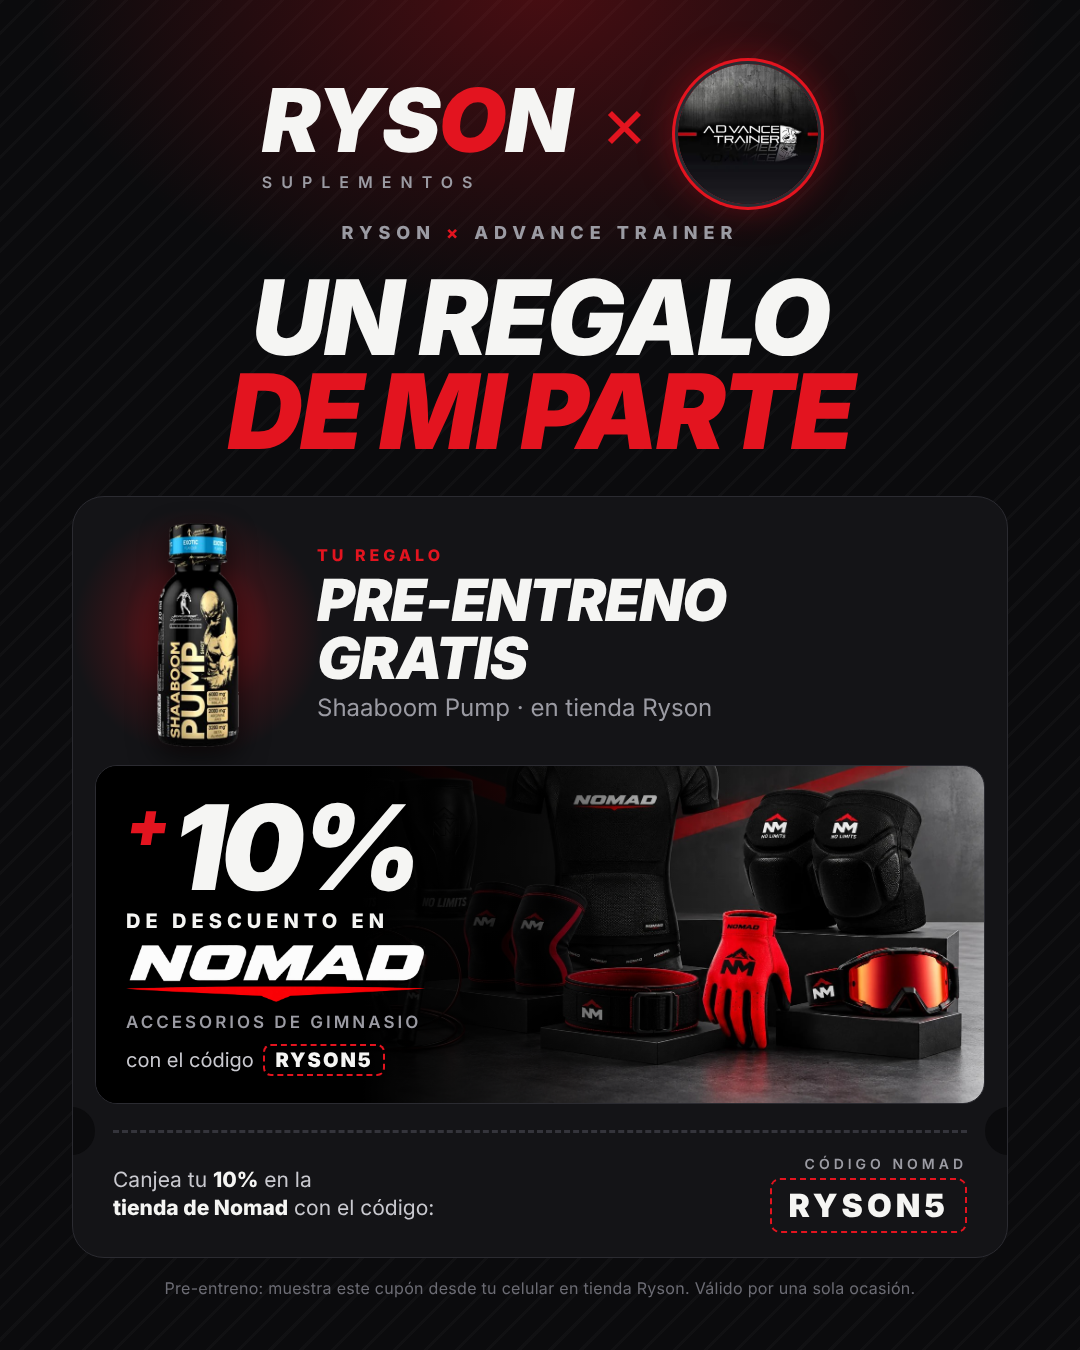
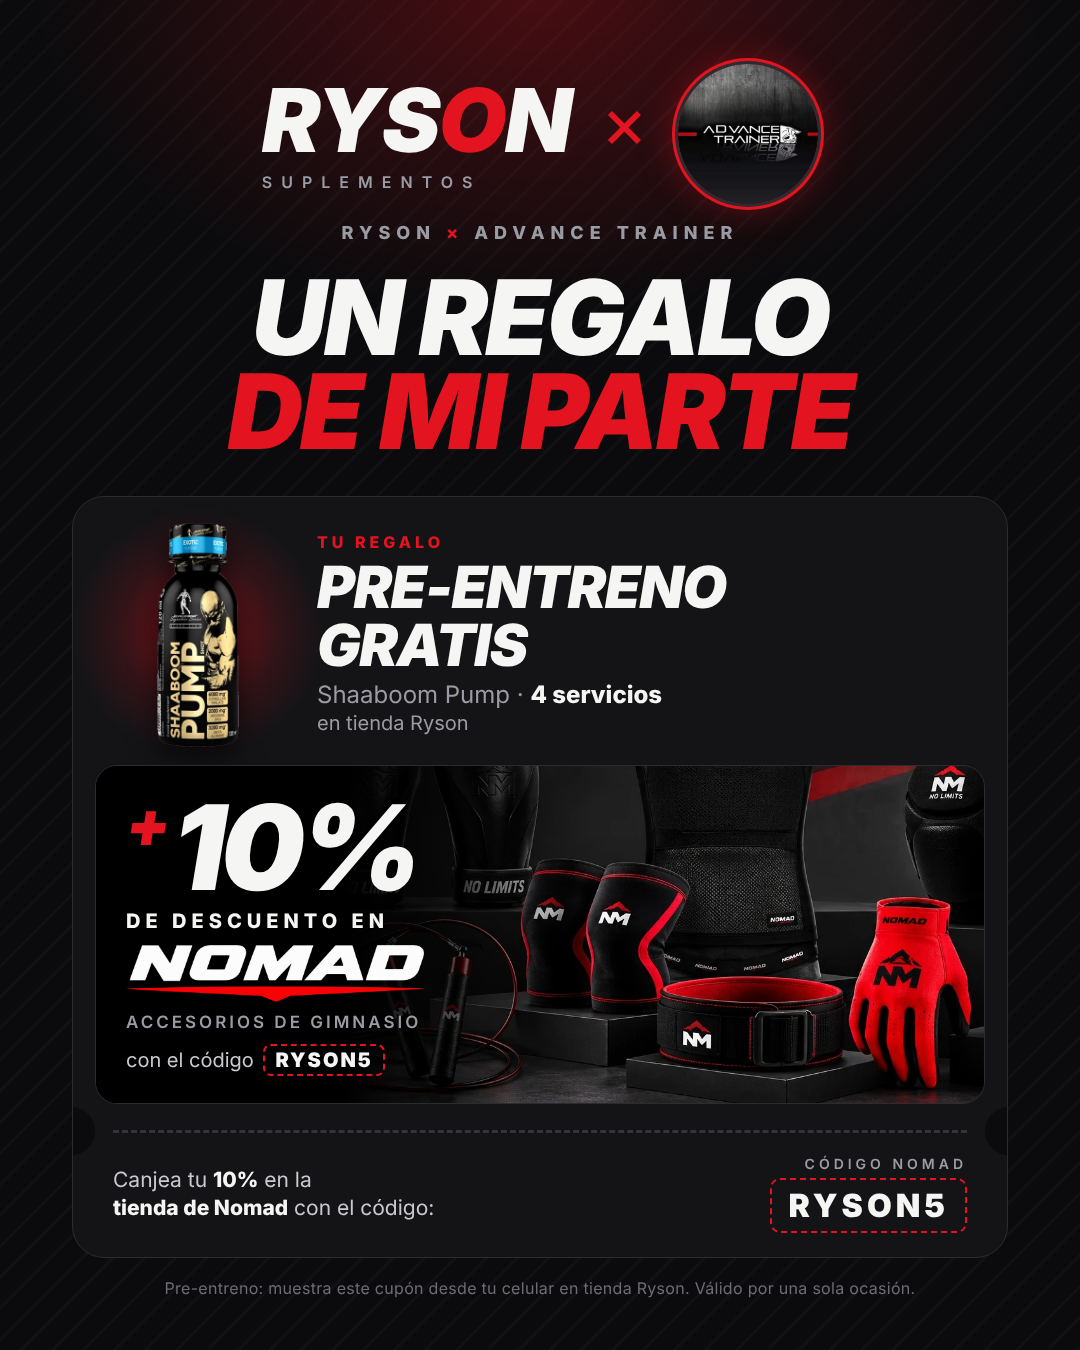
Cupón: enfocar accesorios Nomad (cinturón, muñequeras, rodilleras) y 4 servicios del pre-entreno
Claude-Session: https://claude.ai/code/session_01PJzGfai64QknQRbwEZW9sa

Changed region(s): [[0.3972, 0.56, 0.9167, 0.84], [0.275, 0.3733, 0.6722, 0.56], [0.4583, 0.56, 0.5194, 0.5911]]

diff --git a/cupones/cupones.html b/cupones/cupones.html
@@ -77,16 +77,18 @@
   .k { font-size: 16px; letter-spacing: 4px; color: var(--red); font-weight: 800; text-transform: uppercase; }
   .gift b { display: block; font-size: 58px; font-weight: 900; font-style: italic; text-transform: uppercase; line-height: 1; letter-spacing: -1.5px; margin-top: 6px; }
   .gift small { display: block; font-size: 24px; color: var(--muted); margin-top: 6px; }
+  .gift small + small { margin-top: 2px; font-size: 20px; }
+  .gift .srv { display: inline; font-size: 24px; font-style: normal; letter-spacing: 0; color: var(--white); font-weight: 800; text-transform: none; }
 
   /* descuento: Nomad */
   .nomad {
     position: relative; flex: 1; margin: 0 22px; border-radius: 22px; overflow: hidden;
-    background: #000 url("img/nomad-productos.jpg") right 100% / 80% auto no-repeat;
+    background: #000 url("img/nomad-accesorios.jpg") right center / auto 100% no-repeat;
     border: 1px solid var(--line);
   }
   .nomad::before {
     content: ""; position: absolute; inset: 0;
-    background: linear-gradient(90deg, #000 0%, #000 30%, rgba(0,0,0,.75) 48%, rgba(0,0,0,0) 72%);
+    background: linear-gradient(90deg, #000 0%, #000 28%, rgba(0,0,0,.7) 40%, rgba(0,0,0,0) 56%);
   }
   .nomad .txt { position: relative; height: 100%; padding: 26px 30px; display: flex; flex-direction: column; justify-content: center; }
   .nomad .pct { font-weight: 900; font-style: italic; font-size: 118px; line-height: .85; letter-spacing: -5px; }
@@ -135,7 +137,8 @@
       <div>
         <div class="k">Tu regalo</div>
         <b>Pre-entreno<br>gratis</b>
-        <small>Shaaboom Pump · en tienda Ryson</small>
+        <small>Shaaboom Pump · <b class="srv">4 servicios</b></small>
+        <small>en tienda Ryson</small>
       </div>
     </div>
 
